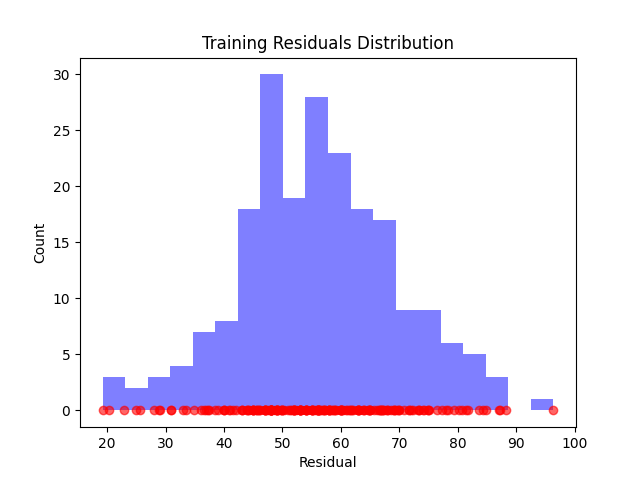
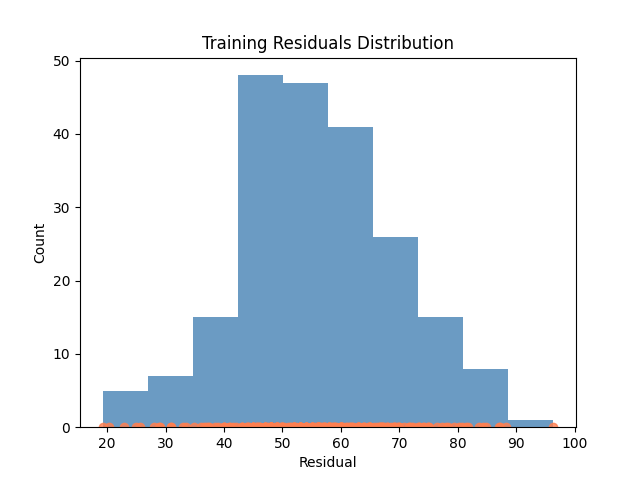
wip. mirror histogram plot results

diff --git a/models/xgb_regression.py b/models/xgb_regression.py
@@ -53,7 +53,7 @@ def plot_and_save(y_true, y_pred, outdir):
     plt.xlabel('Actual')
     plt.ylabel('Predicted')
     plt.title('Predicted vs Actual')
-    plt.savefig(Path(outdir) / 'predicted_vs_actual.png')
+    plt.savefig(Path(outdir)/'predicted_vs_actual.png')
     plt.close()
 
     residuals = y_true - y_pred
@@ -63,7 +63,7 @@ def plot_and_save(y_true, y_pred, outdir):
     plt.xlabel('Fitted Values')
     plt.ylabel('Residuals')
     plt.title('Residuals vs Fitted')
-    plt.savefig(Path(outdir) / 'residuals_vs_fitted.png')
+    plt.savefig(Path(outdir)/'residuals_vs_fitted.png')
     plt.close()
 
     plt.figure()
@@ -71,7 +71,7 @@ def plot_and_save(y_true, y_pred, outdir):
     plt.xlabel('Residual')
     plt.ylabel('Frequency')
     plt.title('Residual Histogram')
-    plt.savefig(Path(outdir) / 'residual_histogram.png')
+    plt.savefig(Path(outdir)/'residual_histogram.png')
     plt.close()
 
 def plot_true_vs_pred(y_true, y_pred, outdir, subset_label, metrics):
@@ -93,7 +93,7 @@ def plot_true_vs_pred(y_true, y_pred, outdir, subset_label, metrics):
                    fontsize=10, verticalalignment='bottom', horizontalalignment='right',
                    bbox=dict(boxstyle='round,pad=0.5', facecolor='lightgray', alpha=0.5))
     plt.tight_layout()
-    plt.savefig(Path(outdir) / f'baseline_{subset_label.lower()}_scatter.png')
+    plt.savefig(Path(outdir)/f'baseline_{subset_label.lower()}_scatter.png')
     plt.close()
 
 def plot_feature_importances(importances, feature_names, outdir, top_n=10):
@@ -108,14 +108,14 @@ def plot_feature_importances(importances, feature_names, outdir, top_n=10):
     plt.xlabel("Feature Importances")
     plt.title(f"Top {top_n} Model Features")
     plt.tight_layout()
-    plt.savefig(Path(outdir) / 'feature_importances.png')
+    plt.savefig(Path(outdir)/'feature_importances.png')
     plt.close()
 
 def plot_statewise_histogram(df, value_col, state_col, outdir):
     sns.histplot(data=df, x=value_col, hue=state_col, element="step", stat="count", common_norm=False, palette='bright', alpha=0.4)
     plt.title('Value Distribution State-Wise')
     plt.tight_layout()
-    plt.savefig(Path(outdir) / 'statewise_histogram.png')
+    plt.savefig(Path(outdir)/'statewise_histogram.png')
     plt.close()
 
 def plot_statewise_facets(df, value_col, state_col, outdir):
@@ -125,7 +125,7 @@ def plot_statewise_facets(df, value_col, state_col, outdir):
     g.set_axis_labels("Value", "Count")
     plt.subplots_adjust(top=0.9)
     g.fig.suptitle('Value Distribution State-Wise')
-    plt.savefig(Path(outdir) / 'statewise_facets.png')
+    plt.savefig(Path(outdir)/'statewise_facets.png')
     plt.close()
 
 def parse_args():
@@ -250,22 +250,22 @@ def main():
         "adj_r2": adj_r2,
     }
 
-    np.save(outdir / "X_train_selected.npy", X_train_selected)
-    np.save(outdir / "X_test_selected.npy", X_test_selected)
-    np.save(outdir / "y_train.npy", y_train.to_numpy())
-    np.save(outdir / "y_test.npy", y_test.to_numpy())
-    np.save(outdir / "y_pred.npy", y_pred)
+    np.save(outdir/"X_train_selected.npy", X_train_selected)
+    np.save(outdir/"X_test_selected.npy", X_test_selected)
+    np.save(outdir/"y_train.npy", y_train.to_numpy())
+    np.save(outdir/"y_test.npy", y_test.to_numpy())
+    np.save(outdir/"y_pred.npy", y_pred)
 
-    with open(outdir / "regression_metrics.json", "w") as f:
+    with open(outdir/"regression_metrics.json", "w") as f:
         json.dump(metrics, f, indent=2)
 
-    with open(outdir / "regression_metrics.txt", "w") as f:
+    with open(outdir/"regression_metrics.txt", "w") as f:
         f.write("Regression Metrics Summary\n")
         f.write("==========================\n")
         for key, value in metrics.items():
             f.write(f"{key}: {value:.6f}\n")
 
-    with open(outdir / "regression_report.txt", "w") as f:
+    with open(outdir/"regression_report.txt", "w") as f:
         f.write("Model Metrics:\n")
         for key, value in metrics.items():
             f.write(f"{key}: {value:.6f}\n")

diff --git a/models/knn_regression.py b/models/knn_regression.py
@@ -154,9 +154,9 @@ def plot_residuals(y_true, y_pred, out_dir, split_name):
 
 def plot_jitter_histogram(data, out_dir, plot_name, bins=20, jitter_level=1e-3):
     plt.figure()
-    plt.hist(data, bins=bins, alpha=0.5, color='blue')
+    plt.hist(data, bins=bins, alpha=0.8, color='steelblue')
     jitter = np.random.normal(0, jitter_level, size=len(data))
-    plt.scatter(data, jitter, alpha=0.6, color='red')
+    plt.scatter(data, jitter, alpha=0.8, color='coral')
     plt.title(plot_name)
     plt.xlabel("Residual")
     plt.ylabel("Count")
@@ -384,7 +384,7 @@ def main(args):
     plot_statewise_facets(df, target_col, 'State_Name', out_dir)
     plot_granularity_histogram(y_train, y_train_pred, out_dir, 'Training')
     plot_granularity_histogram(y_test, y_test_pred, out_dir, 'Testing')
-    plot_jitter_histogram(y_train_pred, out_dir, 'Training Residuals Distribution', bins=20, jitter_level=1e-3)
+    plot_jitter_histogram(y_train_pred, out_dir, 'Training Residuals Distribution', bins=10, jitter_level=1e-6)
 
 
 if __name__ == '__main__':
